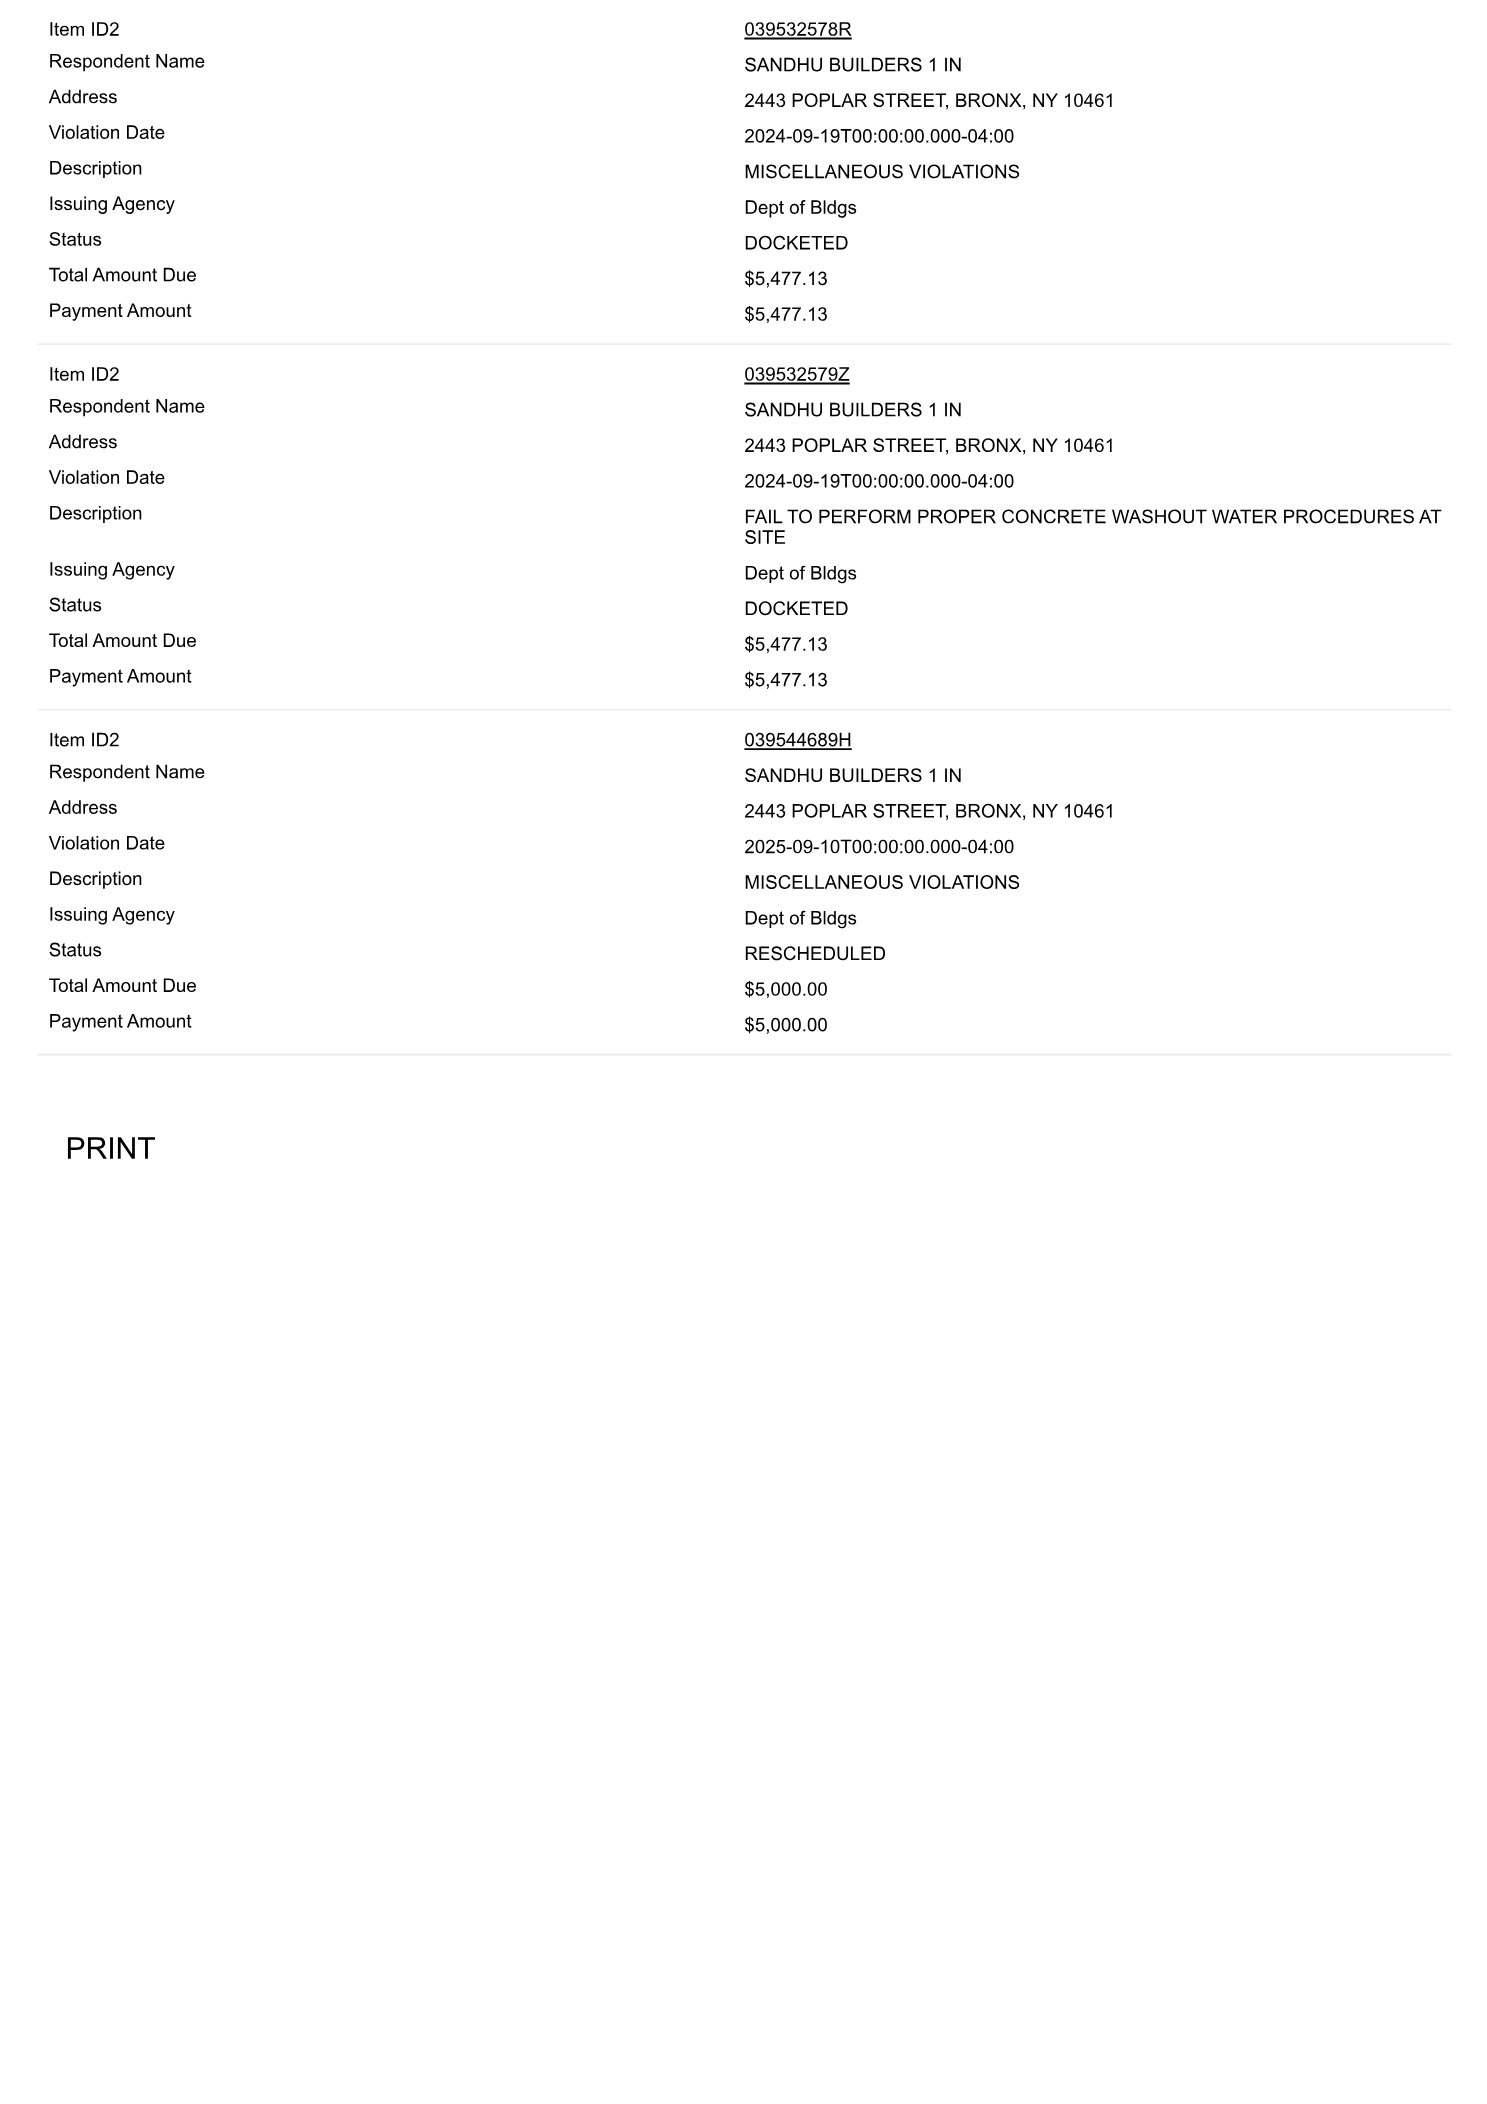
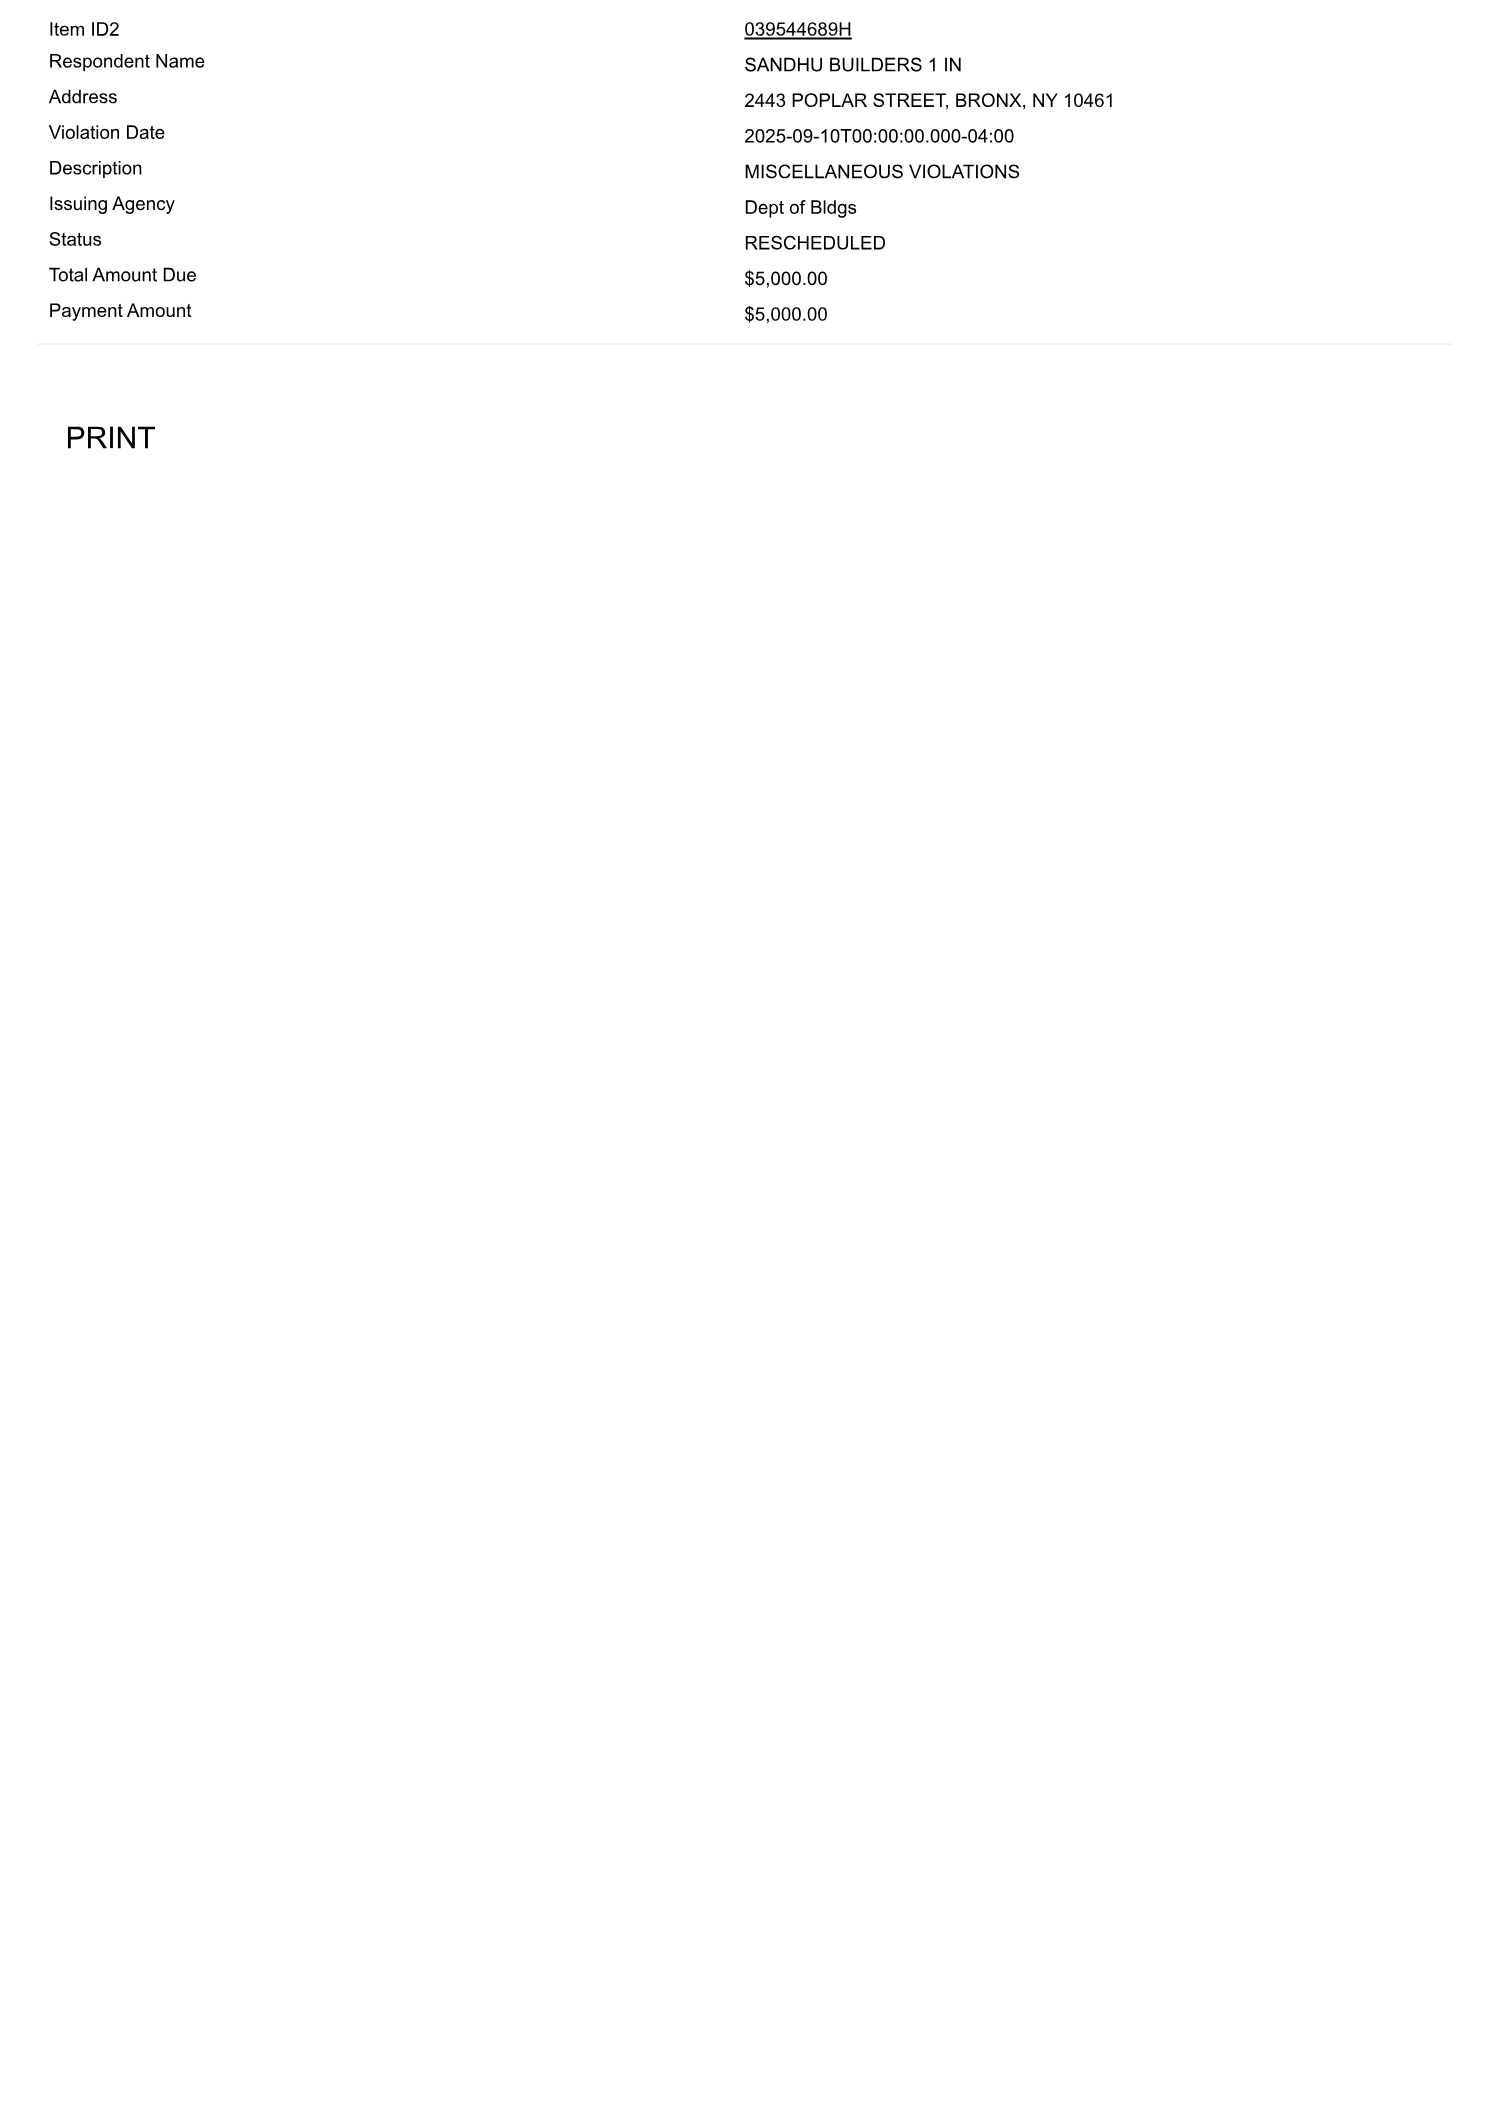
Mark DOB/ECB violation completed, update fines bill to new $10,200 total

diff --git a/public/poplar-punch-list.html b/public/poplar-punch-list.html
@@ -497,16 +497,6 @@
 
     <div class="defect-item">
       <div class="defect-content">
-        <div class="defect-title">Open DOB/ECB Violation — Altered Building Occupied Without Valid C/O</div>
-        <div class="defect-description">Violation #35304980P</div>
-      </div>
-      <div class="image-links">
-        <button class="image-link" onclick="openImage('dob-ecb-violation')">Image</button>
-      </div>
-    </div>
-
-    <div class="defect-item">
-      <div class="defect-content">
         <div class="defect-title">DOB Violation — Failure to File Gas Piping Inspection (LL152)</div>
         <div class="defect-description">Violation #NOD-FTF-PL-PER-202312-0013076 — Status: Active, Civil Penalty Due: $0.00</div>
       </div>
@@ -515,11 +505,21 @@
     <div class="defect-item">
       <div class="defect-content">
         <div class="defect-title">Outstanding DOB/DEP Fines &amp; Penalties</div>
-        <div class="defect-description">6 Defaulted/docketed items totaling $25,631.39</div>
+        <div class="defect-description">4 Defaulted/docketed items totaling $10,200.00</div>
       </div>
       <div class="image-links">
         <button class="image-link" onclick="openImage('fines-and-penalties-1')">Image 1</button>
         <button class="image-link" onclick="openImage('fines-and-penalties-2')">Image 2</button>
+      </div>
+    </div>
+
+    <div class="defect-item done">
+      <div class="defect-content">
+        <div class="defect-title">Open DOB/ECB Violation — Altered Building Occupied Without Valid C/O <span class="status-badge">Completed</span></div>
+        <div class="defect-description">Violation #35304980P</div>
+      </div>
+      <div class="image-links">
+        <button class="image-link" onclick="openImage('dob-ecb-violation')">Image</button>
       </div>
     </div>
   </div>
